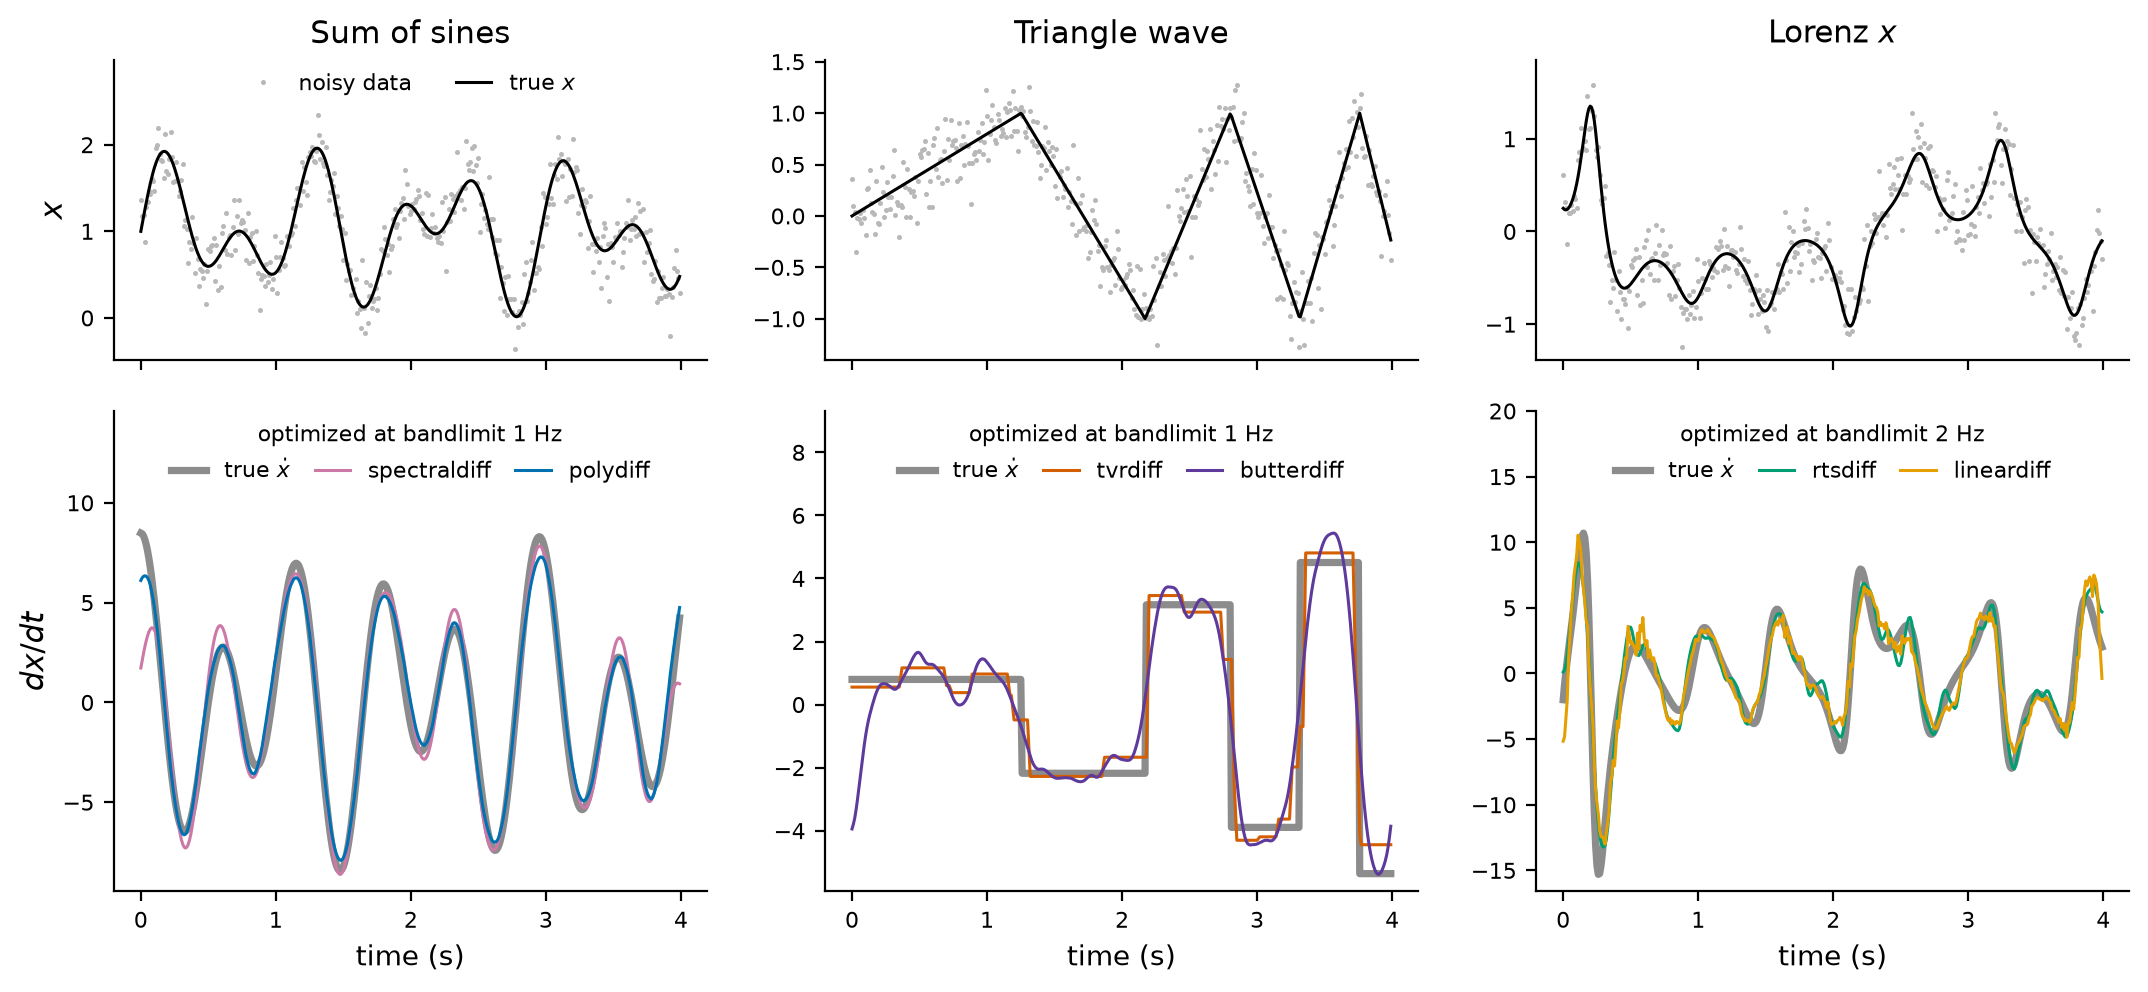
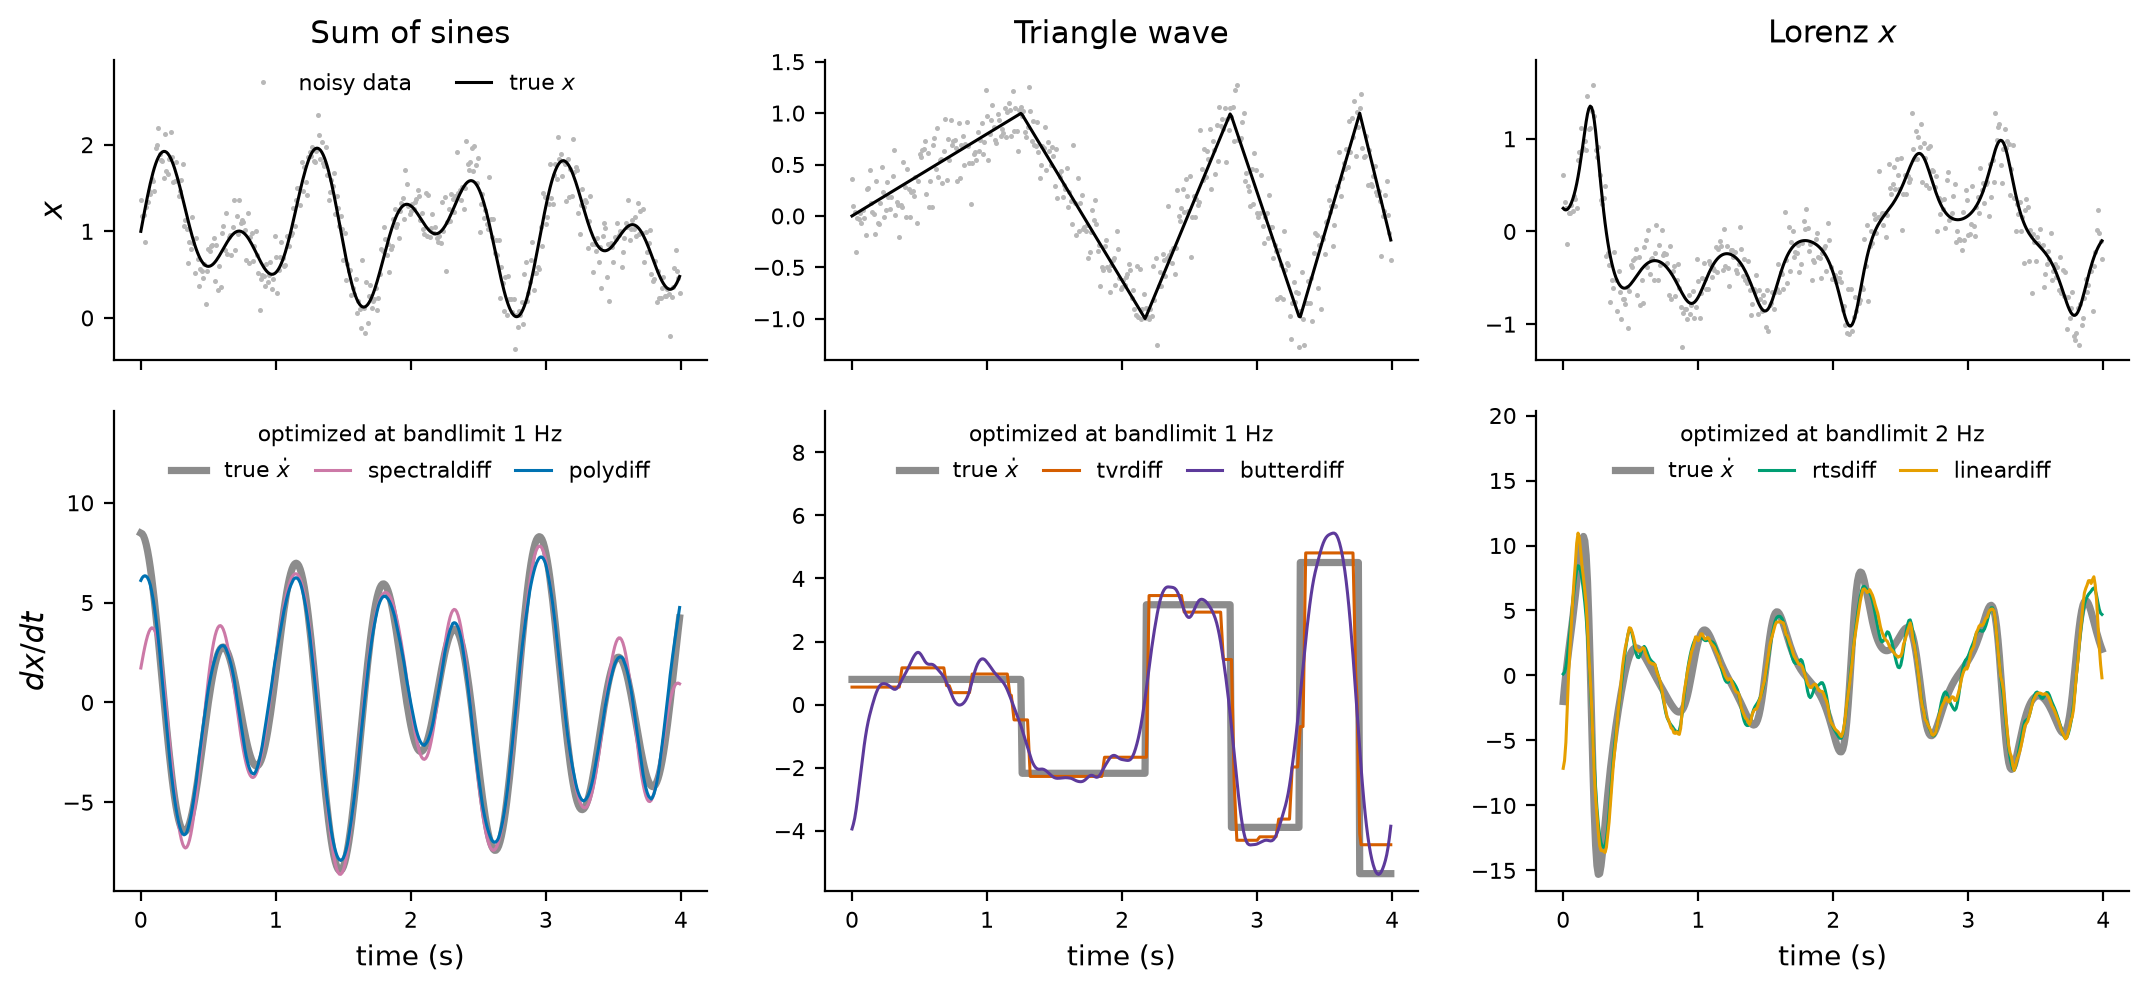
Re-optimize lineardiff and regenerate the comparison figure
The figure predated the switch to x_hat in lineardiff's derivative (3f2cf62), so its lineardiff curve was jagged; re-running the search at bandlimit 2 Hz gives gamma=0.1321875, window_size=39, and the regenerated figure shows a smooth estimate.

diff --git a/paper/make_figure.py b/paper/make_figure.py
@@ -20,7 +20,7 @@ FITTED = {"spectraldiff": dict(cutoff_freq=0.0625, extension='even', pad_to_flat
           "tvrdiff": dict(gamma=10.6015625, huberM=6.0, order=1),
           "butterdiff": dict(cutoff_freq=0.05, num_iterations=1, filter_order=2),
           "rtsdiff": dict(log_qr_ratio=3.81328125, order=1, forwardbackward=False),
-          "lineardiff": dict(gamma=0.00011125, window_size=53, order=2, kernel='friedrichs')}
+          "lineardiff": dict(gamma=0.1321875, window_size=39, order=2, kernel='friedrichs')}
 #FITTED = {}
 
 def main():
